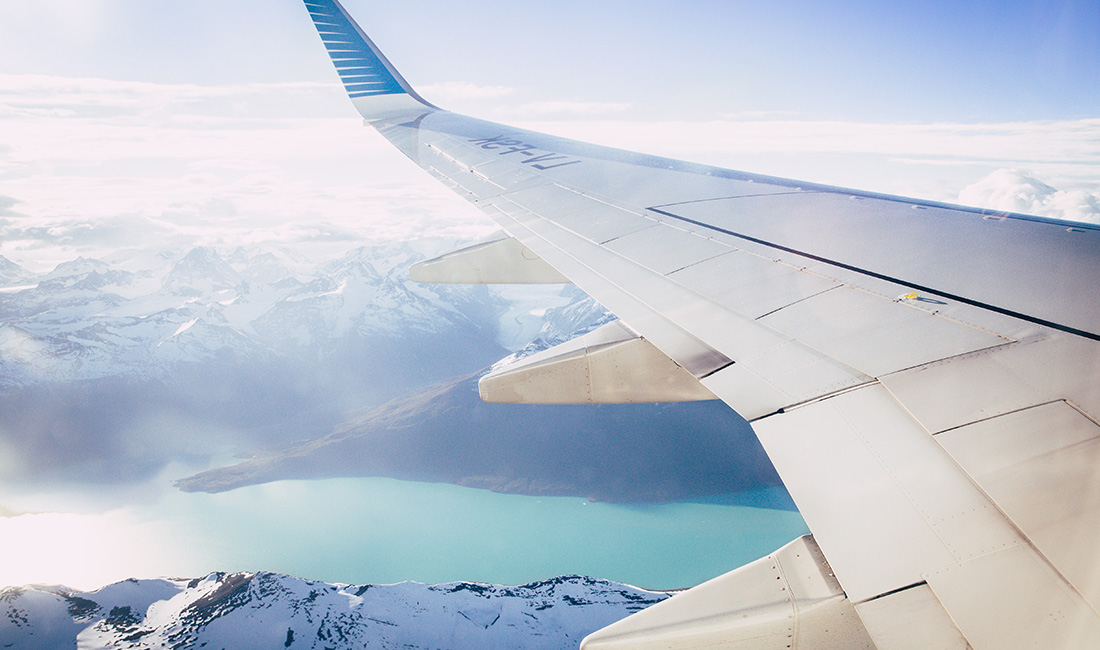
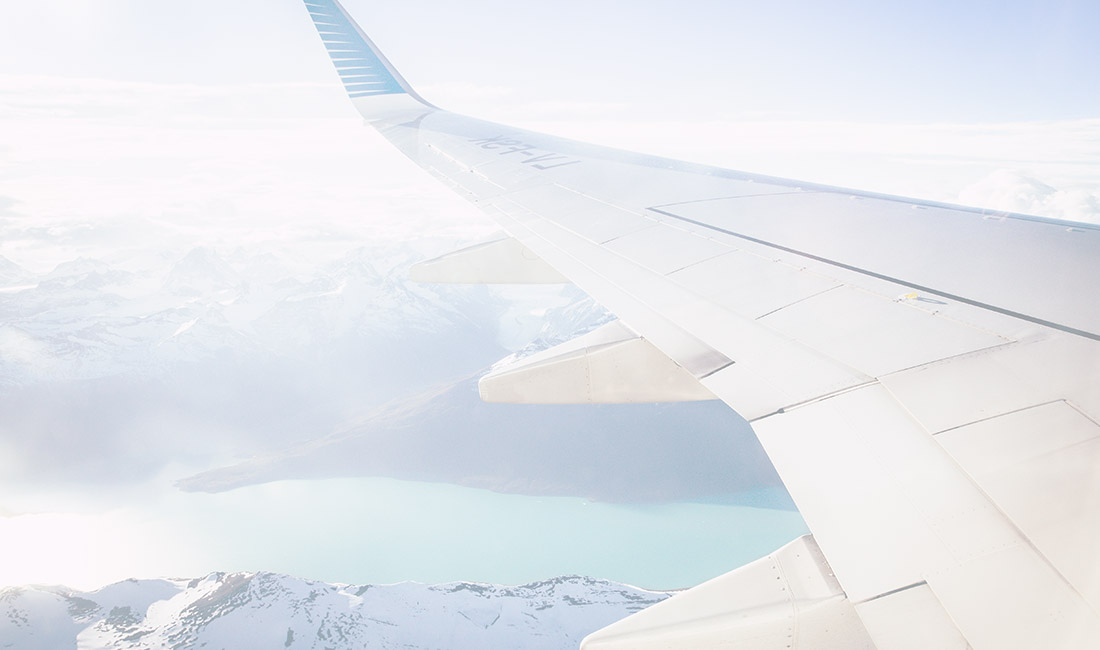
Сверстал intro

diff --git a/css/blocks/spritemenu.css b/css/blocks/spritemenu.css
@@ -1,0 +1,53 @@
+.sprite {
[1 lines of base64/hex data omitted]
+    background-repeat: no-repeat;
+    display: block;
+}
+
+.sprite-feed_icon {
+    width: 20px;
+    height: 18px;
+    background-position: -10px -10px;
+}
+
+.sprite-feed_icon_active {
+    width: 20px;
+    height: 18px;
+    background-position: -50px -10px;
+}
+
+.sprite-main_icon {
+    width: 17px;
+    height: 18px;
+    background-position: -90px -10px;
+}
+
+.sprite-main_icon_active {
+    width: 17px;
+    height: 18px;
+    background-position: -127px -10px;
+}
+
+.sprite-main_icon_intro {
+    width: 15px;
+    height: 14px;
+    background-position: -164px -10px;
+}
+
+.sprite-main_icon_intro_hover {
+    width: 15px;
+    height: 14px;
+    background-position: -199px -10px;
+}
+
+.sprite-team_icon {
+    width: 23px;
+    height: 18px;
+    background-position: -234px -10px;
+}
+
+.sprite-team_icon_active {
+    width: 23px;
+    height: 18px;
+    background-position: -277px -10px;
+}

diff --git a/css/layout/intro.css b/css/layout/intro.css
@@ -1,0 +1,54 @@
+.wrapper__intro {
+  background-image: url('../../img/intro.jpg');
+  background-size: cover;
+  display: flex;
+}
+
+.intro__section {
+  margin: auto;
+}
+
+.intro__section:hover .intro__button--btn {
+  background-color: #1c5bc3;
+  color: #fff;
+}
+
+.intro__section:hover .intro__button--text:after {
+  background-position: -199px -10px;
+}
+
+.intro__link {
+  text-align: center;
+}
+
+.intro__logo {
+  margin-bottom: 40px;
+}
+
+.intro__button--btn {
+  width: 230px;
+  height: 45px;
+  color: #2762c5;
+  border: 1px solid #2762c5;
+  border-radius: 3px;
+  text-transform: uppercase;
+  font-size: 12px;
+  font-weight: bold;
+  letter-spacing: .2em;
+  position: relative;
+}
+
+
+.intro__button--text:after {
+  content: '';
+  display: inline-block;
+  position: absolute;
+  height: 14px;
+  width: 15px;
+  background-image: url('../../img/icons/menu/spritemenu.png');
+  background-position: -164px -10px;
+  margin-left: 5px;
+  top: 13px;
+}
+
+

diff --git a/intro.html b/intro.html
@@ -8,13 +8,10 @@
 </head>
 <body>
   <div class="wrapper wrapper__intro">
-    <div class="intro__bg">
-      <img src="./img/intro.jpg" alt="Airplanet_Intro" class="intro__img">
-    </div>
     <div class="intro__section">
       <a href="index.html" class="intro__link">
-        <div class="intro__logo"><img src="" alt="./img/logo_intro.png" class="intro__logo--img"></div>
-        <button class="intro__button" type="submit"><span class="form__button--text">Отправить</span></button>
+        <div class="intro__logo"><img src="./img/logo_intro.png" alt="Airplanet_logo" class="intro__logo--img"></div>
+        <div class="intro__button"><button class="intro__button--btn" type="submit"><span class="intro__button--text">Перейти на сайт</span></button></div>
       </a>
     </div>  
   </div>

diff --git a/css/blocks/spritesocial.css b/css/blocks/spritesocial.css
@@ -1,0 +1,35 @@
+.sprite {
+    background-image: url(spritesheet.png);
+    background-repeat: no-repeat;
+    display: block;
+}
+
+.sprite-fb {
+    width: 6px;
+    height: 13px;
+    background-position: -10px -10px;
+}
+
+.sprite-google {
+    width: 15px;
+    height: 9px;
+    background-position: -36px -10px;
+}
+
+.sprite-mail {
+    width: 12px;
+    height: 9px;
+    background-position: -71px -10px;
+}
+
+.sprite-twitter {
+    width: 11px;
+    height: 9px;
+    background-position: -103px -10px;
+}
+
+.sprite-vk {
+    width: 12px;
+    height: 7px;
+    background-position: -134px -10px;
+}

diff --git a/css/main.css b/css/main.css
@@ -1,7 +1,7 @@
 @import url('./layout/fonts.css');
 @import url('./layout/normalize.css');
 @import url('./layout/base.css');
-@import url('./blocks/intro.css');
+@import url('./layout/intro.css');
 @import url('./blocks/header.css');
 @import url('./blocks/contacts.css');
 @import url('./blocks/sidebar.css');
